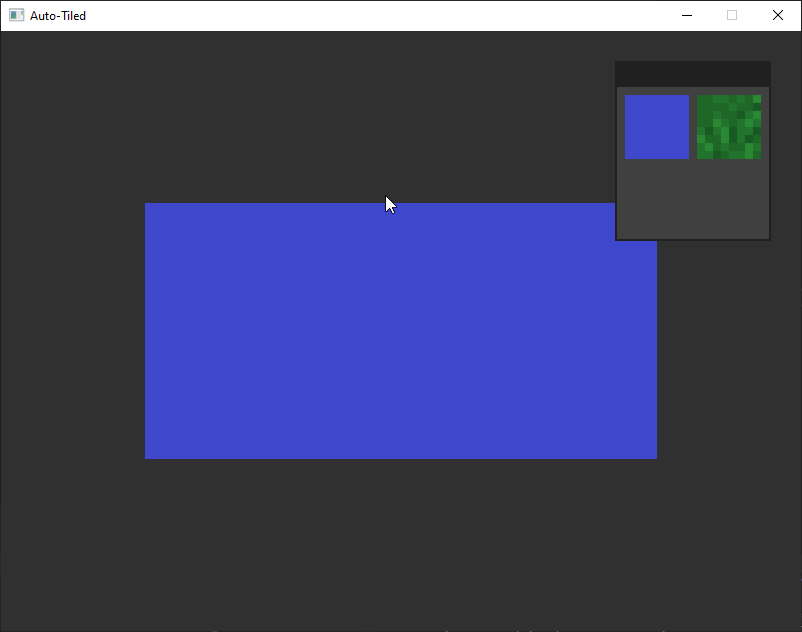
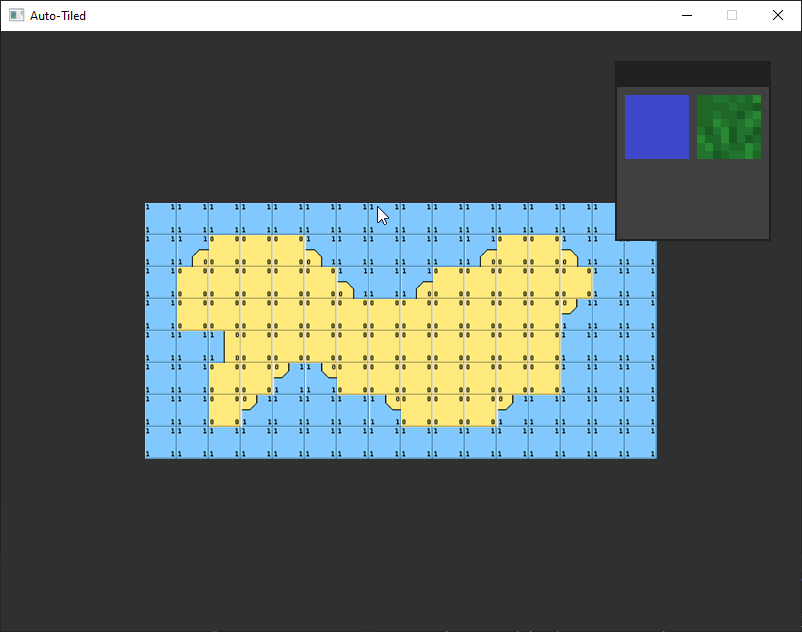
add bitmap auto-tiling for map

Changed region(s): [[0.1559, 0.3006, 0.8416, 0.7516]]

diff --git a/Auto-Tiled/map.hpp b/Auto-Tiled/map.hpp
@@ -8,8 +8,18 @@ public:
 	std::string data;
 	sf::Vector2i size;
 	std::vector < sf::Sprite > sprites;
+	std::vector < sf::Texture > textures;
 
 	Map() {
+
+		
+		data =
+			"..##"
+			"..##"
+			"..##"
+			"..##";
+
+		size = sf::Vector2i(4, 4);
 
 		data =
 			"################"
@@ -22,54 +32,79 @@ public:
 			"################";
 
 		size = sf::Vector2i(16, 8);
+
+		data =
+			"................"
+			"..###......##..."
+			".#####...#####.."
+			".############..."
+			"...##########..."
+			"..##..#######..."
+			"..#.....###....."
+			"................";
+
+		size = sf::Vector2i(16, 8);
+		
 		position.x = (view.getSize().x - size.x * 32) / 2;
 		position.y = (view.getSize().y - size.y * 32) / 2;
 		
-		
+		for (int i = 0; i < 16; i++) {
+			sf::Texture t;
+			t.loadFromFile("tex\\" + std::to_string(i) + ".png");
+			textures.push_back(t);
+		}
 
 		for (int y = 0; y < size.y; y++) {
 			for (int x = 0; x < size.x; x++) {
-				char tile = data[y*size.x + x];
+				std::cout << data[y*size.x + x];
+			}
+			std::cout << "\n";
+		}
+		std::cout << "\n";
 
-				std::cout << tile;
+		
+		for (int y = 0; y < size.y; y++) {
+			for (int x = 0; x < size.x; x++) {
+
+				char tile = data[y*size.x + x];
 				int index = atlasIndexAt(x, y, tile);
-				//int tex_index = 0 .. 256 -> 0 .. 15
-	
-				sf::Texture* tex = &palette->buttons[0]->tex;
 
 				sf::Sprite spr = sf::Sprite();
-				spr.setTexture(*tex);
-				spr.setScale(2, 2);
+				spr.setTexture(textures[index]);
+				spr.setScale(0.5f, 0.5f);
 				spr.setPosition(position.x + 32 * x, position.y + 32 * y);
 				sprites.push_back(spr);
 				
 				
 			}
-			std::cout << "\n";
+			
 		}
 
-		std::cout << "\n\n";
+		
 	}
 
 	~Map() { }
 
-	uint8_t atlasIndexAt(uint16_t x, uint16_t y, char tile) {
-		auto T = tileValueAt(x, y-1, tile);
-		auto L = tileValueAt(x-1, y, tile);
-		auto R = tileValueAt(x+1, y, tile);
-		auto B = tileValueAt(x, y+1, tile);
+	int atlasIndexAt(int x, int y, char tile) {
 
-		auto TL = (T == 0 || L == 0) ? 0 : tileValueAt(x - 1, y - 1, tile);
-		auto TR = (T == 0 || R == 0) ? 0 : tileValueAt(x + 1, y - 1, tile);
-		auto BL = (B == 0 || L == 0) ? 0 : tileValueAt(x - 1, y + 1, tile);
-		auto BR = (B == 0 || R == 0) ? 0 : tileValueAt(x + 1, y + 1, tile);
+		int index;
+		
+		if (tile == '#')
+			index = 0;
+		else {
+			index = 0;
+			if (tileValueAt(x, y - 1, tile)) index = index | 3;		// (3-ci png)
+			if (tileValueAt(x - 1, y, tile)) index = index | 5;		// (5-ty png)
+			if (tileValueAt(x + 1, y, tile)) index = index | 10;	// (10-ty png)
+			if (tileValueAt(x, y + 1, tile)) index = index | 12;	// (12-sty png)
+		}
 
-		return TL * 1 + T * 2 + TR * 4 + L * 8 + R * 16 + BL * 32 + B * 64 + BR * 128;
-
+		//std::cout << x << ", " << y << " : " << index << "\n";
+		return index;
 	}
 
-	uint8_t tileValueAt(uint16_t x, uint16_t y, char tile) {
-		if (x >= size.x || y >= size.y) {
+	int tileValueAt(int x, int y, char tile) {
+		if (x >= size.x || y >= size.y || x < 0 || y < 0) {
 			return 1;
 		}
 

diff --git a/Auto-Tiled/main.cpp b/Auto-Tiled/main.cpp
@@ -1,6 +1,7 @@
 #include <iostream>
 #include <map>
 #include <unordered_map>
+#include <string>
 #include <SFML/Graphics.hpp>
 
 #include "window.hpp"
